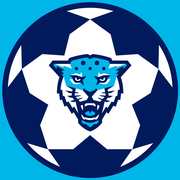
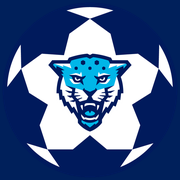
Keep KronScore as the phone app name and drop it from the UI.
Cut the cyan square out of the crest, use that mark in the header and tab icon, and stop printing KronScore on the website and inside the apps.

diff --git a/web/src/App.vue b/web/src/App.vue
@@ -6,7 +6,6 @@ import { useFavorites } from './stores/favorites'
 import { labelOf, roleLabel } from './lib/format'
 import PlayerAvatar from './components/PlayerAvatar.vue'
 import { appVersionLabel, appVersionTitle } from './lib/appVersion'
-import { BRAND_NAME } from './lib/brand'
 import BrandMark from './components/BrandMark.vue'
 
 const auth = useAuthStore()
@@ -47,7 +46,7 @@ const profileTo = computed(() => auth.isAuthenticated ? '/profile' : '/login')
     <header class="chrome">
       <div class="util">
         <div class="container util-inner">
-          <span>{{ BRAND_NAME }} · студенческая лига</span>
+          <span>Студенческая лига</span>
           <span v-if="auth.isAuthenticated">{{ labelOf(roleLabel, auth.role) }}</span>
         </div>
       </div>
@@ -55,10 +54,7 @@ const profileTo = computed(() => auth.isAuthenticated ? '/profile' : '/login')
         <div class="container nav-inner">
           <RouterLink class="brand" to="/" :title="appVersionTitle">
             <BrandMark :size="36" />
-            <span class="brand-copy">
-              <span class="brand-name">{{ BRAND_NAME }}</span>
-              <span class="brand-ver">{{ appVersionLabel }}</span>
-            </span>
+            <span class="brand-ver">{{ appVersionLabel }}</span>
           </RouterLink>
 
           <nav>
@@ -155,7 +151,6 @@ const profileTo = computed(() => auth.isAuthenticated ? '/profile' : '/login')
   letter-spacing: 0.04em;
 }
 .brand:hover { color: #fff; text-decoration: none; }
-.brand-copy { display: grid; line-height: 1.05; }
 .brand-ver {
   font-size: 0.62rem;
   font-weight: 700;
@@ -219,7 +214,6 @@ nav a.on { color: var(--navy); background: var(--ice); }
 @media (max-width: 719px) {
   header nav { display: none; }
   .nav-inner { min-height: 52px; }
-  .brand-name { font-size: 0.95rem; }
   .wide-only { display: none; }
   .phone-only { display: grid; }
   .shell.docked .main { padding-bottom: 5.6rem; }

diff --git a/web/src/views/LoginView.vue b/web/src/views/LoginView.vue
@@ -2,7 +2,7 @@
 import { computed, ref } from 'vue'
 import { RouterLink, useRouter } from 'vue-router'
 import { useAuthStore } from '../stores/auth'
-import { BRAND_LOGO_SRC, BRAND_NAME } from '../lib/brand'
+import { BRAND_MARK_SRC } from '../lib/brand'
 
 const email = ref('')
 const password = ref('')
@@ -34,8 +34,8 @@ async function submit() {
   <section class="auth-wrap rise">
     <div class="split">
       <aside class="promo">
-        <img class="promo-logo" :src="BRAND_LOGO_SRC" :alt="BRAND_NAME" />
-        <p class="eyebrow">{{ BRAND_NAME }}</p>
+        <img class="promo-logo" :src="BRAND_MARK_SRC" alt="" />
+        <p class="eyebrow">Студенческая лига</p>
         <h1>Одна лига для игроков, судей и трибуны</h1>
         <ul>
           <li>Смотреть live и таблицу без регистрации</li>
@@ -98,12 +98,10 @@ async function submit() {
 }
 .promo h1 { font-size: 1.7rem; }
 .promo-logo {
-  width: 148px;
-  height: auto;
-  aspect-ratio: 1;
+  width: 92px;
+  height: 92px;
   object-fit: contain;
-  border-radius: 18px;
-  background: #00b6e8;
+  background: transparent;
 }
 .promo ul { margin: 0; padding-left: 1.1rem; display: grid; gap: 0.4rem; }
 .card { border: 0; box-shadow: none; border-radius: 0; }

diff --git a/web/src/views/HomeView.vue b/web/src/views/HomeView.vue
@@ -5,7 +5,6 @@ import api from '../api/client'
 import EmptyState from '../components/EmptyState.vue'
 import MatchRow from '../components/MatchRow.vue'
 import StandingTable from '../components/StandingTable.vue'
-import { BRAND_NAME } from '../lib/brand'
 import { useTeamDirectory } from '../lib/useTeamDirectory'
 
 type Slide = {
@@ -114,7 +113,7 @@ function nudgeStories(dir: number) {
 
 function heroHeading(slide: Slide | null | undefined) {
   const title = slide?.title?.trim()
-  if (!title || /живой сезон/i.test(title)) return BRAND_NAME
+  if (!title || /живой сезон/i.test(title)) return 'Студенческая лига'
   return title
 }
 </script>
@@ -144,7 +143,7 @@ function heroHeading(slide: Slide | null | undefined) {
           <img v-if="current?.url" :src="current.url" :alt="current.title || 'Главный кадр'" />
           <div v-if="current?.url" class="hero-shade" />
           <div class="hero-copy">
-            <p class="eyebrow">{{ feed?.tournament?.name || BRAND_NAME }}</p>
+            <p class="eyebrow">{{ feed?.tournament?.name || 'Студенческая лига' }}</p>
             <h1>{{ heroHeading(current) }}</h1>
             <p v-if="current?.caption">{{ current.caption }}</p>
             <a

diff --git a/mobile/lib/widgets/match_row.dart b/mobile/lib/widgets/match_row.dart
@@ -2,7 +2,6 @@ import 'package:flutter/material.dart';
 import 'package:go_router/go_router.dart';
 import 'package:provider/provider.dart';
 
-import '../core/brand.dart';
 import '../core/format.dart';
 import '../core/models.dart';
 import '../core/theme.dart';
@@ -162,7 +161,7 @@ class _Outcome extends StatelessWidget {
 }
 
 class LeagueHead extends StatelessWidget {
-  const LeagueHead({super.key, required this.title, this.subtitle = brandName});
+  const LeagueHead({super.key, required this.title, this.subtitle = ''});
   final String title;
   final String subtitle;
 
@@ -176,7 +175,8 @@ class LeagueHead extends StatelessWidget {
         crossAxisAlignment: CrossAxisAlignment.start,
         children: [
           Text(title.toUpperCase(), style: const TextStyle(fontWeight: FontWeight.w800, fontSize: 13, color: AppColors.navy)),
-          Text(subtitle, style: const TextStyle(fontSize: 11, color: AppColors.muted, fontWeight: FontWeight.w600, letterSpacing: 0.5)),
+          if (subtitle.isNotEmpty)
+            Text(subtitle, style: const TextStyle(fontSize: 11, color: AppColors.muted, fontWeight: FontWeight.w600, letterSpacing: 0.5)),
         ],
       ),
     );

diff --git a/web/src/views/TableView.vue b/web/src/views/TableView.vue
@@ -7,7 +7,6 @@ import MatchRow from '../components/MatchRow.vue'
 import PlayerAvatar from '../components/PlayerAvatar.vue'
 import StandingTable from '../components/StandingTable.vue'
 import BrandMark from '../components/BrandMark.vue'
-import { BRAND_NAME } from '../lib/brand'
 import { useTeamDirectory } from '../lib/useTeamDirectory'
 
 type Tab = 'table' | 'results' | 'scorers' | 'assists' | 'players'
@@ -119,7 +118,6 @@ async function load() {
     <div class="league">
       <BrandMark :size="56" rounded="tile" />
       <div>
-        <p class="where">{{ BRAND_NAME }}</p>
         <h1>{{ tournament?.name || 'Таблица' }}</h1>
         <label class="field season">
           <select v-model="tournamentId">
@@ -266,14 +264,6 @@ async function load() {
   gap: 0.75rem;
   align-items: center;
   padding: 0.35rem 0 0.2rem;
-}
-.where {
-  margin: 0;
-  color: var(--muted);
-  font-size: 0.68rem;
-  letter-spacing: 0.08em;
-  text-transform: uppercase;
-  font-weight: 700;
 }
 .league h1 { font-size: clamp(1.2rem, 3vw, 1.7rem); }
 .season { max-width: 360px; margin-top: 0.35rem; }

diff --git a/mobile/lib/features/matches/match_detail_page.dart b/mobile/lib/features/matches/match_detail_page.dart
@@ -2,7 +2,6 @@ import 'package:flutter/material.dart';
 import 'package:go_router/go_router.dart';
 import 'package:provider/provider.dart';
 
-import '../../core/brand.dart';
 import '../../core/format.dart';
 import '../../core/models.dart';
 import '../../core/theme.dart';
@@ -131,10 +130,10 @@ class _MatchDetailPageState extends State<MatchDetailPage> with SingleTickerProv
     final away = store.teamName(current.awayTeamId);
 
     return Scaffold(
-      appBar: AppBar(title: Text(store.tournamentNames[current.tournamentId] ?? brandName)),
+      appBar: AppBar(title: Text(store.tournamentNames[current.tournamentId] ?? 'Матч')),
       body: Column(
         children: [
-          _LeagueBar(title: store.tournamentNames[current.tournamentId] ?? brandName, onTap: () => context.go('/table')),
+          _LeagueBar(title: store.tournamentNames[current.tournamentId] ?? 'Матч', onTap: () => context.go('/table')),
           Padding(
             padding: const EdgeInsets.fromLTRB(12, 10, 12, 0),
             child: Container(

diff --git a/mobile/lib/features/table/table_page.dart b/mobile/lib/features/table/table_page.dart
@@ -4,7 +4,6 @@ import 'package:provider/provider.dart';
 
 import '../../core/models.dart';
 import '../../core/theme.dart';
-import '../../core/brand.dart';
 import '../../state/league_store.dart';
 import '../../widgets/brand_mark.dart';
 import '../../widgets/marks.dart' hide PlayerPhoto;
@@ -48,7 +47,6 @@ class _TablePageState extends State<TablePage> with SingleTickerProviderStateMix
                 child: Column(
                   crossAxisAlignment: CrossAxisAlignment.start,
                   children: [
-                    const Text(brandName, style: TextStyle(color: AppColors.muted, fontSize: 11, fontWeight: FontWeight.w700, letterSpacing: 0.8)),
                     Text(store.tournamentName ?? 'Таблица', style: const TextStyle(fontWeight: FontWeight.w800, fontSize: 18, color: AppColors.navy)),
                     if (store.tournaments.isNotEmpty)
                       DropdownButtonHideUnderline(

diff --git a/mobile/lib/features/shell/shell_page.dart b/mobile/lib/features/shell/shell_page.dart
@@ -3,7 +3,6 @@ import 'package:go_router/go_router.dart';
 import 'package:provider/provider.dart';
 
 import '../../core/theme.dart';
-import '../../core/brand.dart';
 import '../../state/favorites_store.dart';
 import '../../widgets/brand_mark.dart';
 
@@ -18,13 +17,7 @@ class ShellPage extends StatelessWidget {
     return Scaffold(
       appBar: AppBar(
         titleSpacing: 16,
-        title: const Row(
-          children: [
-            BrandMark(size: 28),
-            SizedBox(width: 8),
-            Text(brandName, style: TextStyle(fontWeight: FontWeight.w800, letterSpacing: 0.4)),
-          ],
-        ),
+        title: const BrandMark(size: 28),
         actions: [
           IconButton(
             tooltip: 'Профиль',

diff --git a/web/src/views/MatchDetailView.vue b/web/src/views/MatchDetailView.vue
@@ -6,7 +6,6 @@ import SockJS from 'sockjs-client'
 import api from '../api/client'
 import { useAuthStore } from '../stores/auth'
 import { eventDetail, eventLabel, formatClock, formatWhen, labelOf, periodLabel, playerTag } from '../lib/format'
-import { BRAND_NAME } from '../lib/brand'
 import { eventMinute, longKickoff, matchStateLabel } from '../lib/match'
 import { apiError } from '../lib/errors'
 import { useMatchClock } from '../lib/useMatchClock'
@@ -221,7 +220,7 @@ onUnmounted(() => client?.deactivate())
 <template>
   <section v-if="match" class="stack">
     <RouterLink class="league-bar" to="/table">
-      {{ tournament?.name || BRAND_NAME }}
+      {{ tournament?.name || 'Матч' }}
       <span>›</span>
     </RouterLink>
 

diff --git a/web/src/components/BrandMark.vue b/web/src/components/BrandMark.vue
@@ -1,5 +1,5 @@
 <script setup lang="ts">
-import { BRAND_MARK_SRC, BRAND_NAME } from '../lib/brand'
+import { BRAND_MARK_SRC } from '../lib/brand'
 
 withDefaults(
   defineProps<{
@@ -15,7 +15,7 @@ withDefaults(
     class="brand-mark"
     :class="rounded"
     :src="BRAND_MARK_SRC"
-    :alt="BRAND_NAME"
+    alt=""
     :width="size"
     :height="size"
     :style="{ width: `${size}px`, height: `${size}px` }"
@@ -25,8 +25,8 @@ withDefaults(
 <style scoped>
 .brand-mark {
   display: block;
-  object-fit: cover;
-  background: #00b6e8;
+  object-fit: contain;
+  background: transparent;
   flex-shrink: 0;
 }
 .brand-mark.circle { border-radius: 50%; }

diff --git a/web/src/views/CalendarView.vue b/web/src/views/CalendarView.vue
@@ -3,7 +3,6 @@ import { computed, onMounted, ref } from 'vue'
 import { RouterLink, useRoute } from 'vue-router'
 import api from '../api/client'
 import { useTeamDirectory } from '../lib/useTeamDirectory'
-import { BRAND_NAME } from '../lib/brand'
 import { ymd } from '../lib/match'
 import EmptyState from '../components/EmptyState.vue'
 import MatchRow from '../components/MatchRow.vue'
@@ -120,7 +119,6 @@ const grouped = computed(() => {
         <div class="league-head">
           <div>
             {{ group.name }}
-            <small>{{ BRAND_NAME }}</small>
           </div>
         </div>
         <MatchRow

diff --git a/mobile/test/widget_test.dart b/mobile/test/widget_test.dart
@@ -10,11 +10,10 @@ import 'package:student_league/state/league_store.dart';
 import 'package:student_league/widgets/match_row.dart';
 
 void main() {
-  testWidgets('renders KronScore phone shell', (WidgetTester tester) async {
+  testWidgets('renders the phone shell', (WidgetTester tester) async {
     await tester.pumpWidget(const StudentLeagueApp(autoload: false));
     await tester.pump();
 
-    expect(find.text('KronScore'), findsWidgets);
     expect(find.text('Игры'), findsOneWidget);
     expect(find.text('Таблица'), findsOneWidget);
     expect(find.text('Live'), findsOneWidget);
